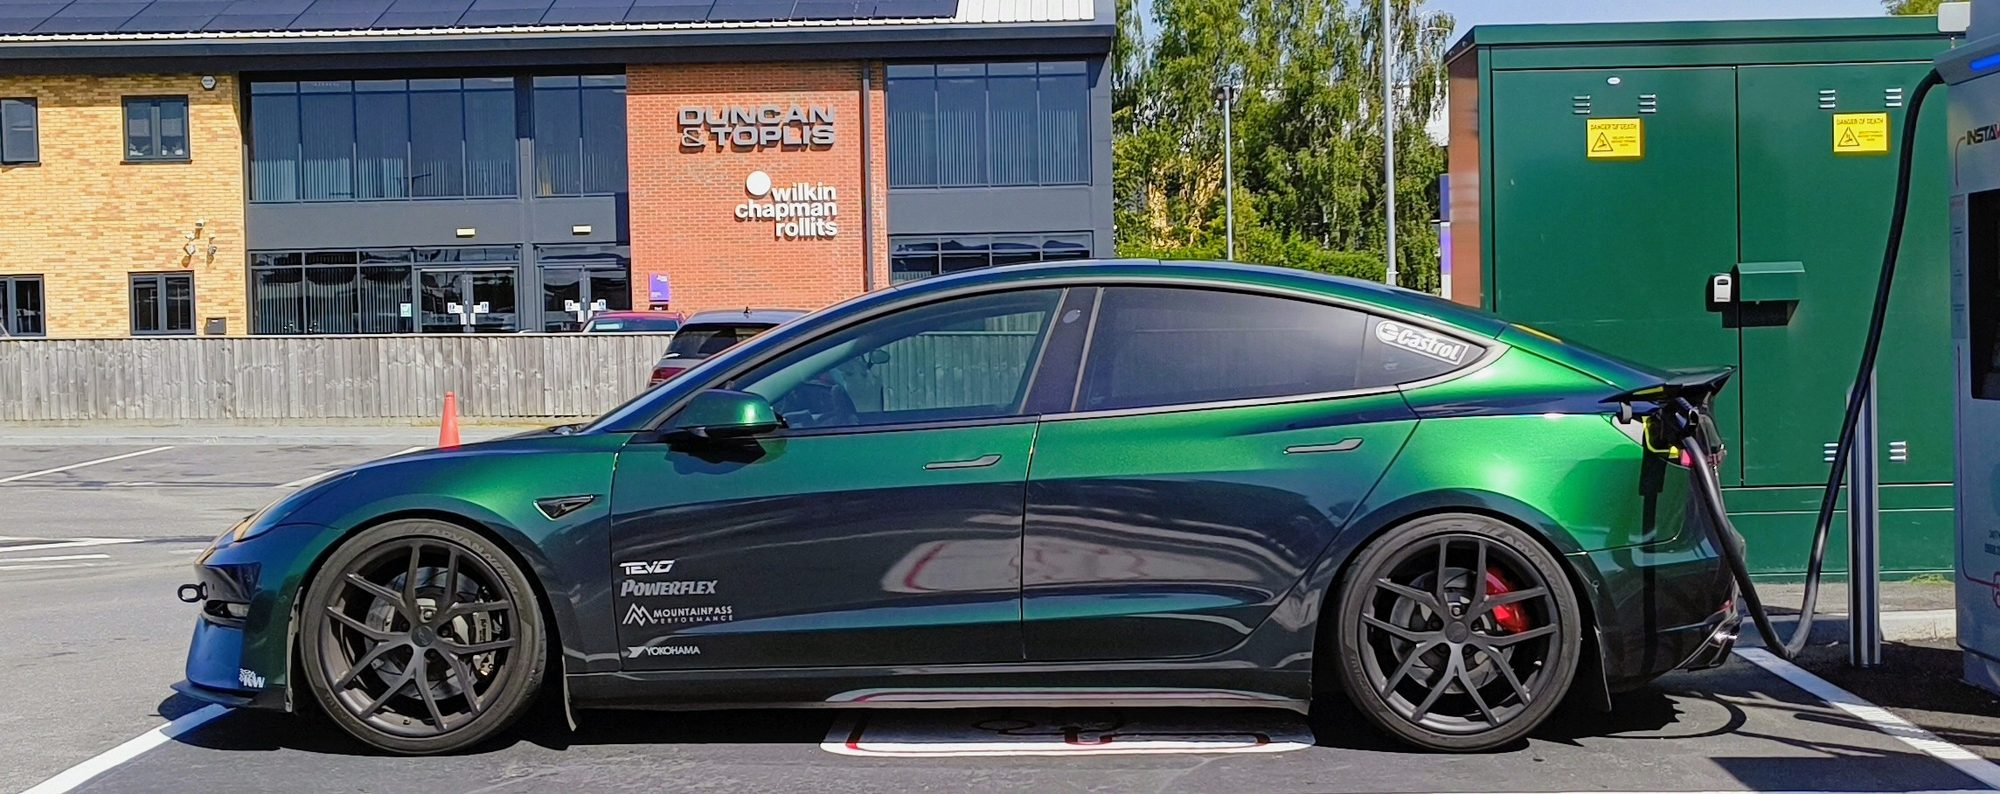
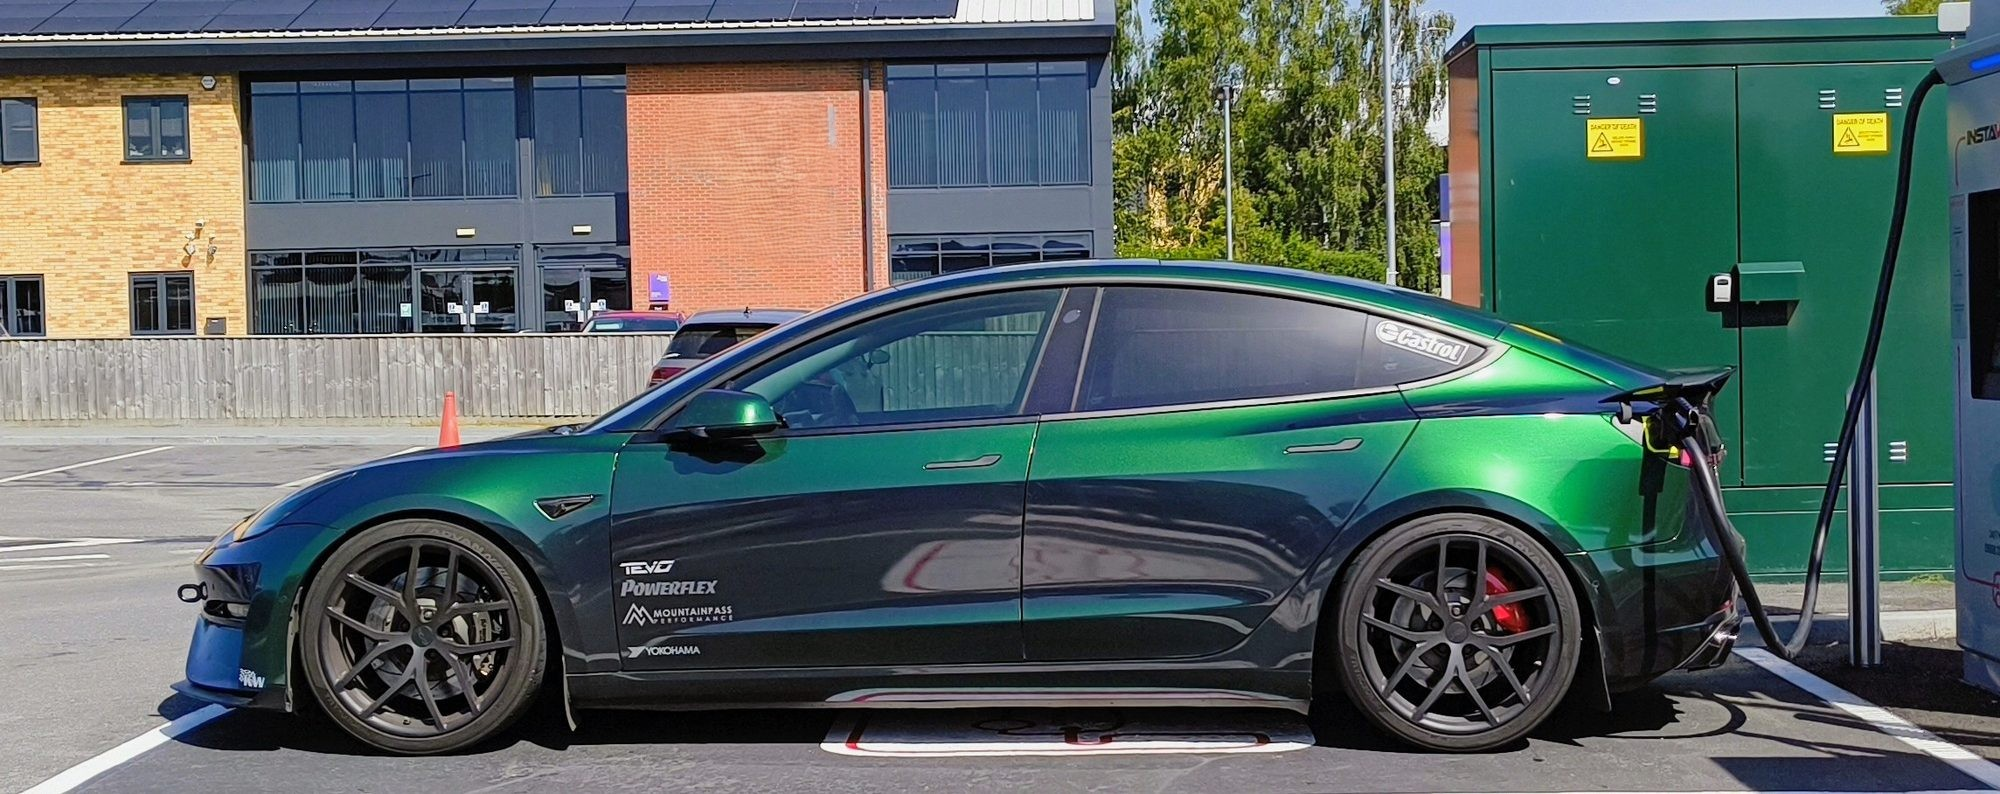
Add spacing below hero heading

Changed region(s): [[0.31, 0.0907, 0.434, 0.3325]]

diff --git a/index.html b/index.html
@@ -473,10 +473,11 @@
   }
   .hero-tag::before { content: ''; width: 6px; height: 6px; background: var(--orange); border-radius: 50%; }
 
+  
   .hero h1 {
     font-size: clamp(2.4rem, 5vw, 3.6rem);
     line-height: 1.03;
-    margin-bottom: 22px;
+    margin-bottom: 1em; /* Adds roughly 1 lines of space below the heading */
   }
 
   .hero p.lead {
@@ -569,12 +570,18 @@
     letter-spacing: 0.04em;
   }
 
-  .hero-media { display: flex; flex-direction: column; gap: 12px; align-items: flex-start; }
+  .hero-media { 
+    display: flex; 
+    flex-direction: column; 
+    gap: 12px; 
+    align-items: flex-start; 
+    margin-top: 36px; /* Adjust this number to add more or less space above */
+  }
   .hero-media-note {
     font-family: 'IBM Plex Mono', monospace;
     font-size: 0.78rem;
     color: rgba(255, 255, 255, 0.85);
-    text-align: center;
+    text-align: left; /* Aligns the text to the left */
     max-width: 340px;
   }
   .hero-media-note a { color: var(--orange); }
@@ -604,15 +611,7 @@
     .hero-vote-countdown { margin-top: 48px; } 
   }
 
-  @media (min-width: 901px) {
-    .hero-grid { justify-items: center; text-align: center; }
-    .hero-tag { margin-left: auto; margin-right: auto; }
-    .hero p.lead { margin-left: auto; margin-right: auto; max-width: 64ch; }
-    .hero-cta-stack { align-items: center; }
-    .hero-ctas { justify-content: center; }
-    .hero-stats { max-width: 480px; margin: 0 auto; }
-    .hero-media { align-items: center; }
-  }
+  .hero-media { align-items: flex-start; }
 
   @media (max-width: 600px) {
     .hero {
